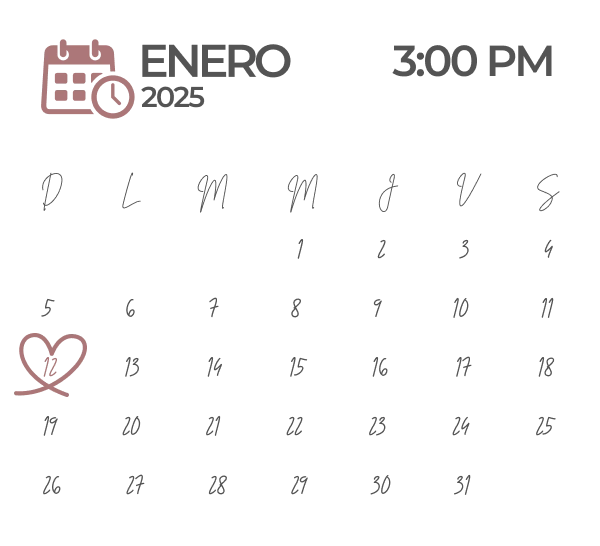
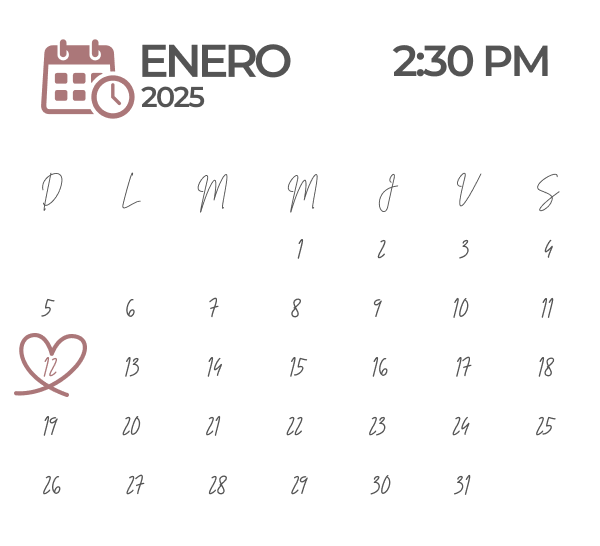
nuevos cambios

Changed region(s): [[0.66, 0.0623, 0.93, 0.1557]]

diff --git a/src/pages/Invitacion.tsx b/src/pages/Invitacion.tsx
@@ -28,6 +28,7 @@ import galery_04 from "../assets/img/gal_04.webp";
 import galery_05 from "../assets/img/gal_05.webp";
 import galery_06 from "../assets/img/gal_06.webp";
 import vector from "../assets/img/vector-image.webp";
+import mesas from "../assets/img/mesas.webp";
 
 
 import audioCorazon from "../assets/mp3/aparece-corazon.mp3"
@@ -129,7 +130,7 @@ const Invitacion = () => {
 
     <>
 
-      <img src={background} className='fixed top-0 left-0 w-full min-h-full object-cover' style={{ zIndex: -1 }} alt="" />
+      <img src={background} className='fixed top-0 left-0 w-full min-h-full object-cover' style={{ zIndex: -1, opacity: "0.2" }} alt="" />
 
       <CarouselComponent />
       <img src={vector} className="w-full h-[40px] absolute" alt="" style={{ marginTop: "-2em", zIndex: "999 !important" }} />
@@ -145,10 +146,8 @@ const Invitacion = () => {
       <div className={`relative mb-24 ${isMobile ? 'overflow-x-hidden' : ''} `} style={{ marginTop: "-1em" }}>
         {showButton &&
           <div className="flex fixed justify-between items-center m-auto bottom-4 w-full px-4 lg:w-[40%] lg:ml-10" style={{ zIndex: "999" }}>
-            <div className="w-[82%] ">
-              <MusicPlayer src={nuestroamor} />
-            </div>
-            <Box className="absolute right-4 bottom-0">
+
+            <Box className="absolute right-4 bottom-14">
               <div
                 className={`flex flex-col gap-2 ${isOpenMenu ? 'visible' : 'h-0'}`}
                 style={{
@@ -197,7 +196,7 @@ const Invitacion = () => {
               <div className="p-8">
                 <h1 className="text-xl font-medium clr-gray200 text-center secondFont">Con la bendición de Dios y de nuestros padres</h1>
               </div>
-              <figure className={`item-right absolute float-left left-0 top-24 lg:hidden ${inViewMovRight ? 'fadeRight' : 'fadeOut'}`} ref={refMovRight}>
+              <figure className={`item-right absolute float-left left-0 lg:hidden ${inViewMovRight ? 'fadeRight' : 'fadeOut'}`} ref={refMovRight} style={{ top: "px" }}>
                 <img src={hoja} style={{ zIndex: "-1" }} alt="" />
               </figure>
               <div className="flex flex-col justify-center items-center lg:grid lg:grid-cols-2">
@@ -266,7 +265,7 @@ const Invitacion = () => {
               <div className="flex justify-between items-center gap-8 mt-5 mb-5">
                 <span className="secondFont text-2xl font-semibold clr-primary">12 ENERO</span>
                 <div className="h-[60px] w-[1px] back-primary"></div>
-                <span className="secondFont text-2xl font-semibold clr-primary">4:00 PM</span>
+                <span className="secondFont text-2xl font-semibold clr-primary">2:30 PM</span>
               </div>
               <p className="treeFont text-lg clr-gray200 mb-5 text-center w-full">MZ. A Lote 6 Barrio 3A</p>
               <Link to="https://maps.app.goo.gl/3qThoqwXaq5etw536.." target="_blank" className="w-[70%] lg:w-[40%]" >
@@ -451,7 +450,7 @@ const Invitacion = () => {
                 anchor={isMobile ? 'bottom' : 'left'}
               />
             </div>
-            <div className="flex flex-col justify-center items-center mt-12 mb-32 gap-2 px-4" id="asistencia">
+            <div className="flex flex-col justify-center items-center mt-12 mb-8 gap-2 px-4" id="asistencia">
               <img src={asistencia} className="h-[100px]" alt="" />
               <h2 className="secondFont text-2xl font-bold clr-gray200 uppercase" style={{ letterSpacing: "2.5px" }}>Asistencia</h2>
               <p className="treeFont text-lg clr-gray200 font-semibold text-center">La pasaremos genial</p>
@@ -481,9 +480,16 @@ const Invitacion = () => {
                 </div>
               </div>
             </div>
+            <img src={mesas} alt="" className="w-full h-[400px] object-cover" />
           </div>
         </div>
       </div>
+      {showButton &&
+        <div className="w-full fixed bottom-0" style={{ zIndex: "3" }}>
+          <MusicPlayer src={nuestroamor} />
+        </div>
+      }
+
       <ToastContainer theme="success" />
     </>
 

diff --git a/src/pages/components/weddingDay/weddingDay.tsx b/src/pages/components/weddingDay/weddingDay.tsx
@@ -10,7 +10,7 @@ const renderer: CountdownRendererFn = ({ days, hours, minutes, seconds, complete
     return (
 
 
-      <div className='flex flex-1 gap-2 justify-center p-4' >
+      <div className='flex flex-1 gap-2 justify-center p-4 flex-wrap' >
         <div className='back-primary w-[100px] h-[120px] flex justify-center treeFont font-medium items-center flex-col text-white text-center rounded-lg' style={{ animation: "pulsar 5s infinite" }}><span className='text-lg'>{days}</span><span className='text-md'>Días</span></div>
         <div className='back-primary w-[100px] h-[120px] flex justify-center treeFont font-medium items-center flex-col text-white text-center rounded-lg' style={{ animation: "pulsar 5s infinite" }}><span className='text-lg'>{hours} </span><span className='text-md'>Horas</span></div>
         <div className='back-primary w-[100px] h-[120px] flex justify-center treeFont font-medium items-center flex-col text-white text-center rounded-lg' style={{ animation: "pulsar 5s infinite" }}><span className='text-lg'>{minutes}</span><span className='text-md'>Minutos</span></div>

diff --git a/src/pages/Cart.tsx b/src/pages/Cart.tsx
@@ -44,7 +44,7 @@ const Cart: React.FC = () => {
                         <img className="w-[220px] md:w-[300px] mb-6" src={arco} alt="arco" />
                         <div className='flex flex-col justify-center items-center gap-7'>
                             <h1 className='primaryFont text-4xl md:text-5xl text-[#464444]'>Jhon y Carmen</h1>
-                            <p className='secondFont text-xl md:text-2xl  font-normal text-[#717171]'>12 de Enero | 04:00 pm</p>
+                            <p className='secondFont text-xl md:text-2xl  font-normal text-[#717171]'>12 de Enero | 02:30 pm</p>
                         </div>
                         <img className="w-[220px] md:w-[300px]" src={arcoDown} alt="arco" />
                     </div>

diff --git a/src/App.tsx b/src/App.tsx
@@ -2,12 +2,14 @@ import { Route, Routes } from 'react-router-dom';
 import './App.css';
 import Login from './pages/Cart';
 import Systems from './pages/Invitacion';
+import ScrollToTop from './pages/components/scroll/ScrollTop';
 
 
 function App() {
     return (
-        <div className="min-h-full md:h-screen flex items-center justify-center">
 
+        <div className="min-h-full md:h-screen flex items-center justify-center">
+            <ScrollToTop />
             <Routes>
                 <Route path="/" element={<Login />} />
                 <Route path="/system" element={<Systems />} />

diff --git a/src/pages/components/musicPlayer/MusicPlayer.tsx b/src/pages/components/musicPlayer/MusicPlayer.tsx
@@ -66,7 +66,7 @@ const MusicPlayer: React.FC<MusicPlayerProps> = ({ src }) => {
     }
   };
   return (
-    <Box className="flex flex-col w-full justify-center p-2 rounded-lg gap-1" sx={{ background: "linear-gradient(90deg,#86977E,#495245)" }}>
+    <Box className="flex flex-col w-full justify-center p-2  gap-1" sx={{ background: "linear-gradient(90deg,#86977E,#495245)" }}>
       <Box className="flex justify-between gap-16" onClick={(e) => e.stopPropagation()}>
         <div className='flex gap-2'>
           <img src={novios} className='w-[32px] h-[32px] object-cover rounded-sm' alt="" />

diff --git a/src/pages/components/scroll/ScrollTop.tsx b/src/pages/components/scroll/ScrollTop.tsx
@@ -1,0 +1,14 @@
+import { useEffect } from 'react';
+import { useLocation } from 'react-router-dom';
+
+const ScrollToTop = () => {
+  const { pathname } = useLocation();
+
+  useEffect(() => {
+    window.scrollTo(0, 0);
+  }, [pathname]);
+
+  return null;
+};
+
+export default ScrollToTop;

diff --git a/src/App.css b/src/App.css
@@ -49,7 +49,7 @@
     background-color: var(--pink600);
 }
 body {
-    background-color: var(--pink) !important;
+    /* background-color: var(--pink) !important; */
     height: 100vh;
     overflow-x: hidden;
 }
